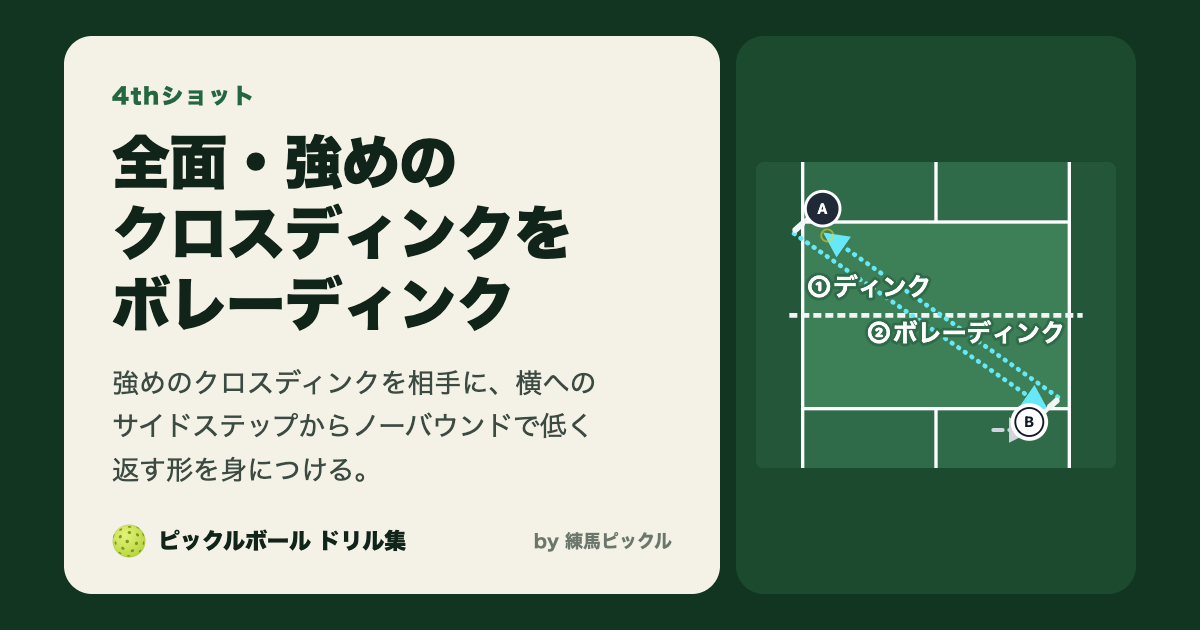
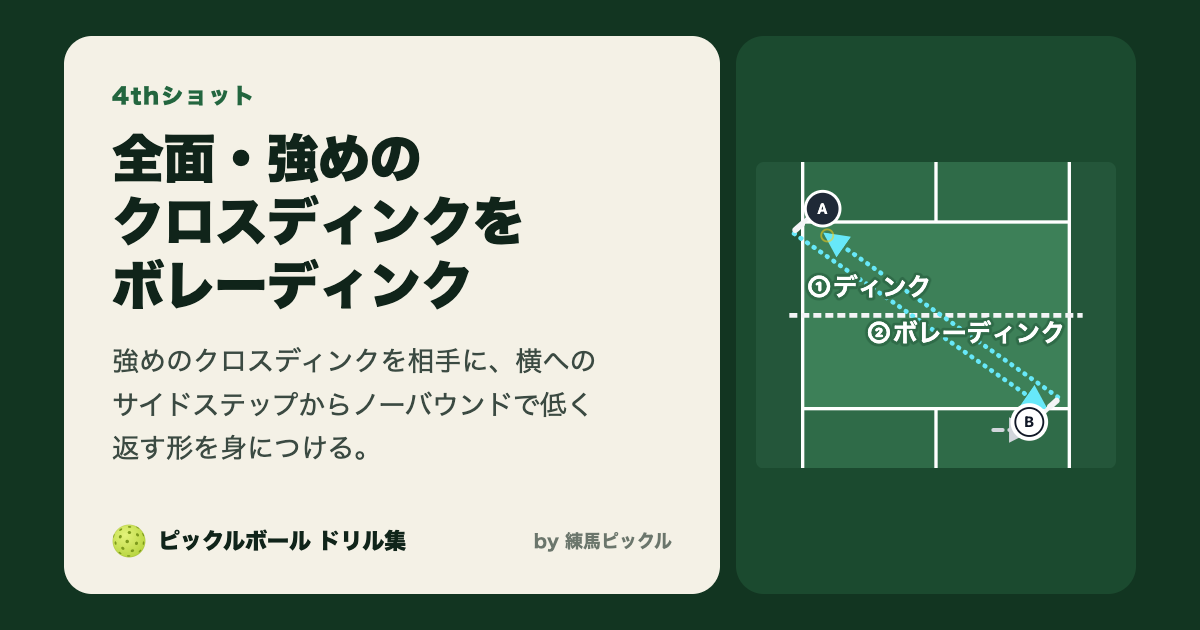
Drill share previews: no overlapping shot labels; titles break between phrases
Claude-Session: https://claude.ai/code/session_013HpVCq95JLREtWQF64J4S6

Changed region(s): [[0.0925, 0.2111, 0.4933, 0.7841]]

diff --git a/docs/decisions.md b/docs/decisions.md
@@ -94,3 +94,4 @@
 - 共有画像の外側の余白を、左右 64px・上下 36px に広げた（src/config/og.ts の padX・padY）。LINE はカードの形に合わせて左右を少し切り（1200px 幅で片側40px ほど）、余白が 28px のときはタイルの端が切れていたため（書き手が LINE で確かめた）。
 - 共有画像の URL の後ろに、画像の材料の指紋を付けた（`/og/site.png?v=xxxxxxxx`）。LINE も X も推奨の大きさを公式には出しておらず、OGP の考え方を決めた Meta の資料では、1200×630・1.91:1 が推奨で、画像は URL ごとに覚え、差し替えたら新しい URL にしないと更新されない、とあるため。大きさは 1200×630 のままにする（X に合わせて 2:1 にすると LINE で左右が多く切れる）。
 - 共通の共有画像の右上のタイルを、ボールの絵から、ドリルがあるカテゴリの名前の一覧に替えた（書き手が4案から選んだ）。全部ではないと分かるように、最後に etc. を付ける。名前はデータから並べ、5つまで出す。ボールは題名とコートの図で伝わり、飾りの役しかしていなかったため。
+- ドリルの共有画像を2つ直した。(1) 止まった1枚の図で、線の名前どうしが重なるときは、あとの名前を上下に1段ずつずらす（Court.astro）。①などの番号を付けた長さで、図の左右からはみ出さないように寄せる。(2) 題名は、空白で区切った短いまとまり（9字まで、→ は前の語に付ける）を途中で折り返さず、18字を超える題名は文字を少し小さくする。「玉」や「の」だけで行が切れていたため。
